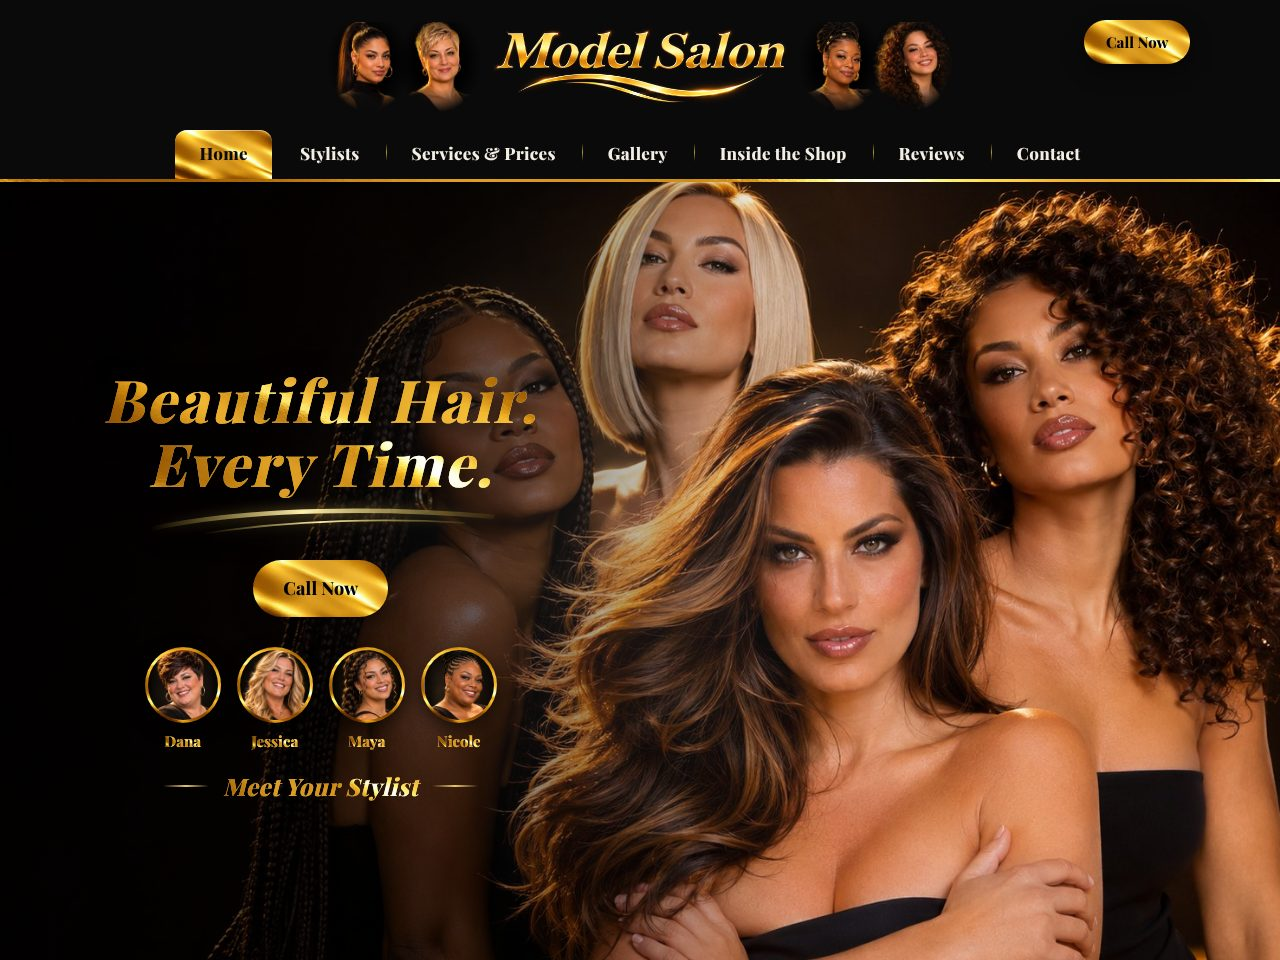
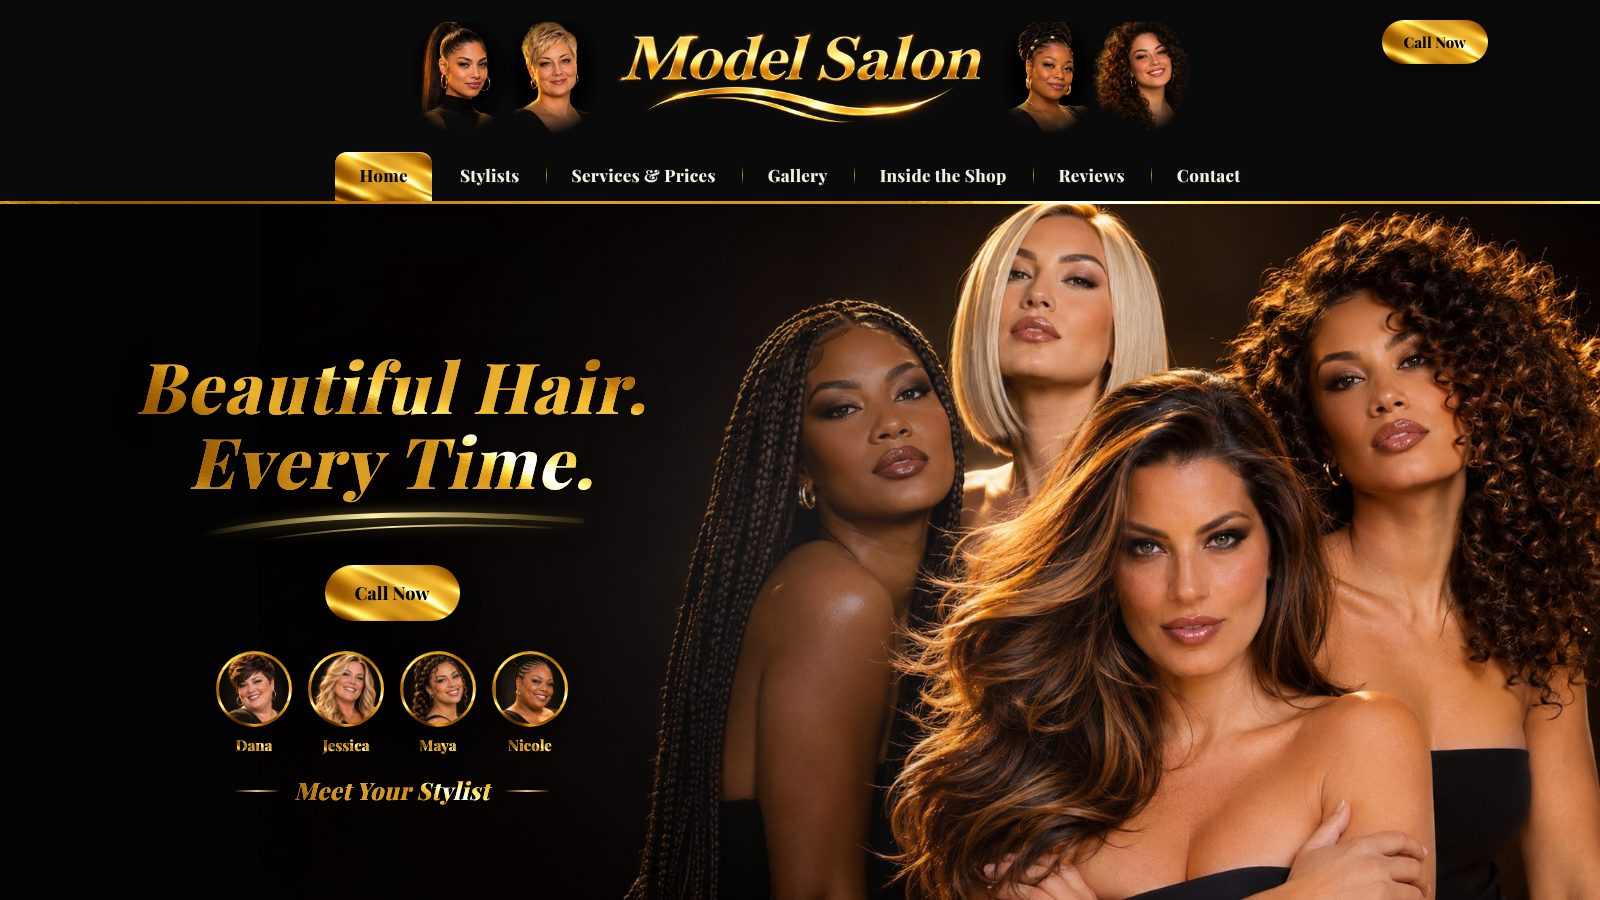
Demos: Salon card shows the whole Model Salon home page in a wide 16:9 box, like Bot's design; all 4 demo pictures 16:9 so the row stays even (Tom 11/10)
Claude-Session: https://claude.ai/code/session_01AscvykDERtHhGuArs1Vc7i

diff --git a/demos/index.html b/demos/index.html
@@ -97,7 +97,8 @@ section.block#plans{max-width:1280px}
 .tier li.seo{color:var(--ink);font-weight:700}
 .demo-grid{display:grid;gap:20px;grid-template-columns:repeat(4,minmax(0,1fr))}
 .demo-card{display:flex;flex-direction:column;overflow:hidden;background:linear-gradient(170deg,#152060,var(--panel));border:1px solid var(--blue);border-radius:14px;box-shadow:0 8px 28px rgba(0,0,0,.35)}
-.demo-card img,.demo-placeholder{width:100%;aspect-ratio:4/3;object-fit:cover}
+/* 11/10 (Tom): wide 16:9 boxes so the Salon card shows the whole Model Salon home page, like Bot's design */
+.demo-card img,.demo-placeholder{width:100%;aspect-ratio:16/9;object-fit:cover}
 .demo-placeholder{display:grid;place-items:center;background:var(--gold);color:#111;font-family:var(--display);font-size:2rem;text-align:center;padding:20px}
 .demo-card-body{display:flex;flex-direction:column;gap:12px;padding:20px;flex:1}
 .demo-card h3{margin:0;font-family:var(--display);color:var(--gold);font-size:1.4rem}
@@ -188,7 +189,7 @@ nav.site-nav .nav-menu{display:none}
   <p class="lead">Try a demo to see exactly what your customers will see. No signup required.</p>
   <div class="demo-grid">
     <article class="demo-card">
-      <img class="skin-shot" src="images/demo-model-salon-skin.jpg" width="1280" height="960" alt="The Model Salon home page, a ProGo website" loading="lazy">
+      <img class="skin-shot" src="images/demo-model-salon-skin.jpg?v=169" width="1600" height="900" alt="The Model Salon home page, a ProGo website" loading="lazy">
       <div class="demo-card-body"><h3>Salon demo</h3><p>ProGo &middot; $199 one time</p><a class="btn solid" href="DEMOS/progo/">Try Demo</a></div>
     </article>
     <article class="demo-card">
